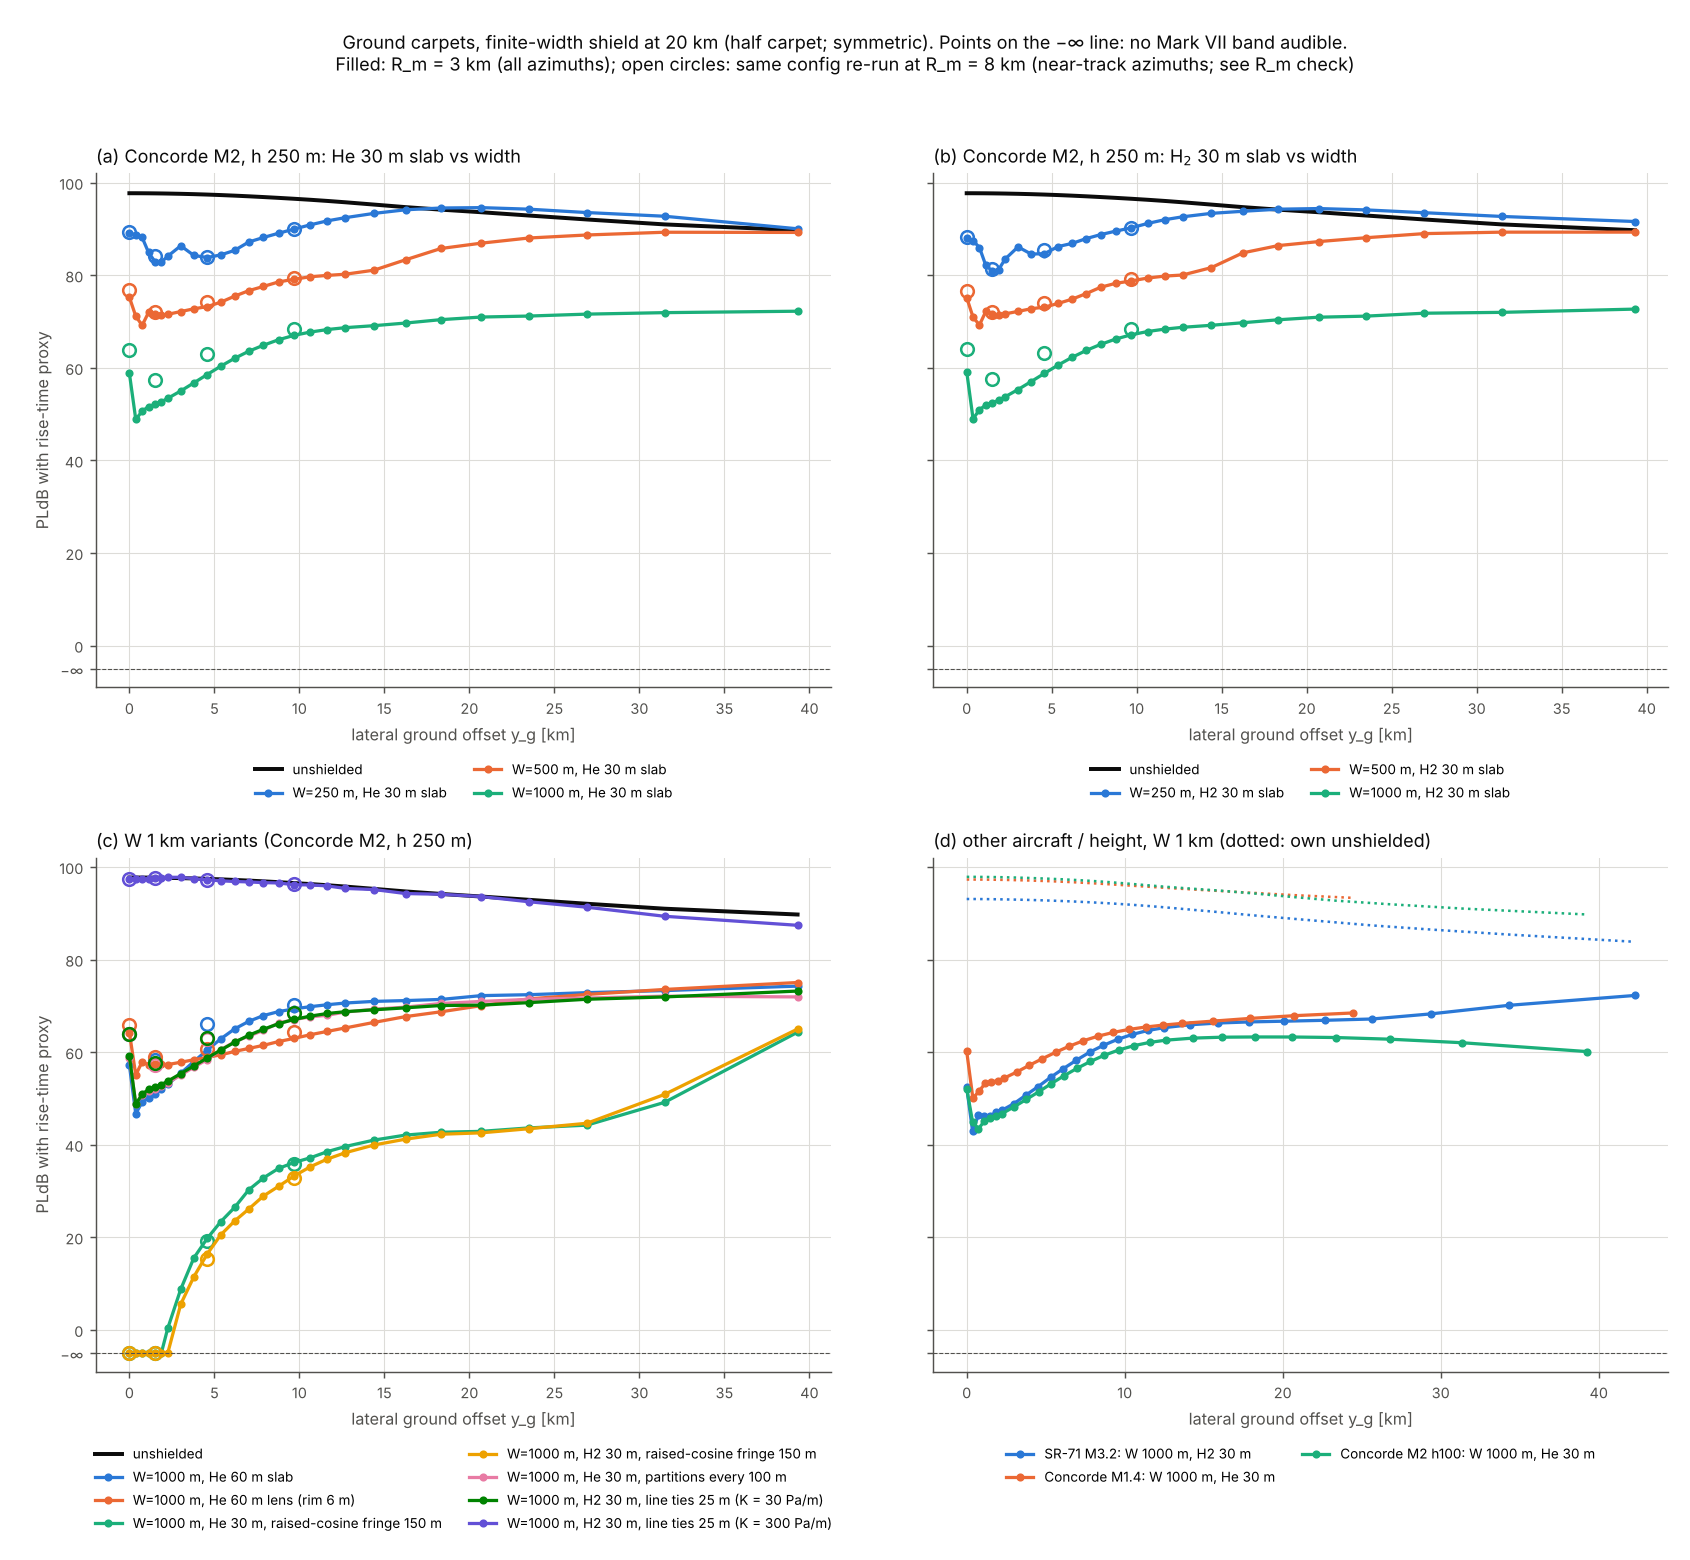
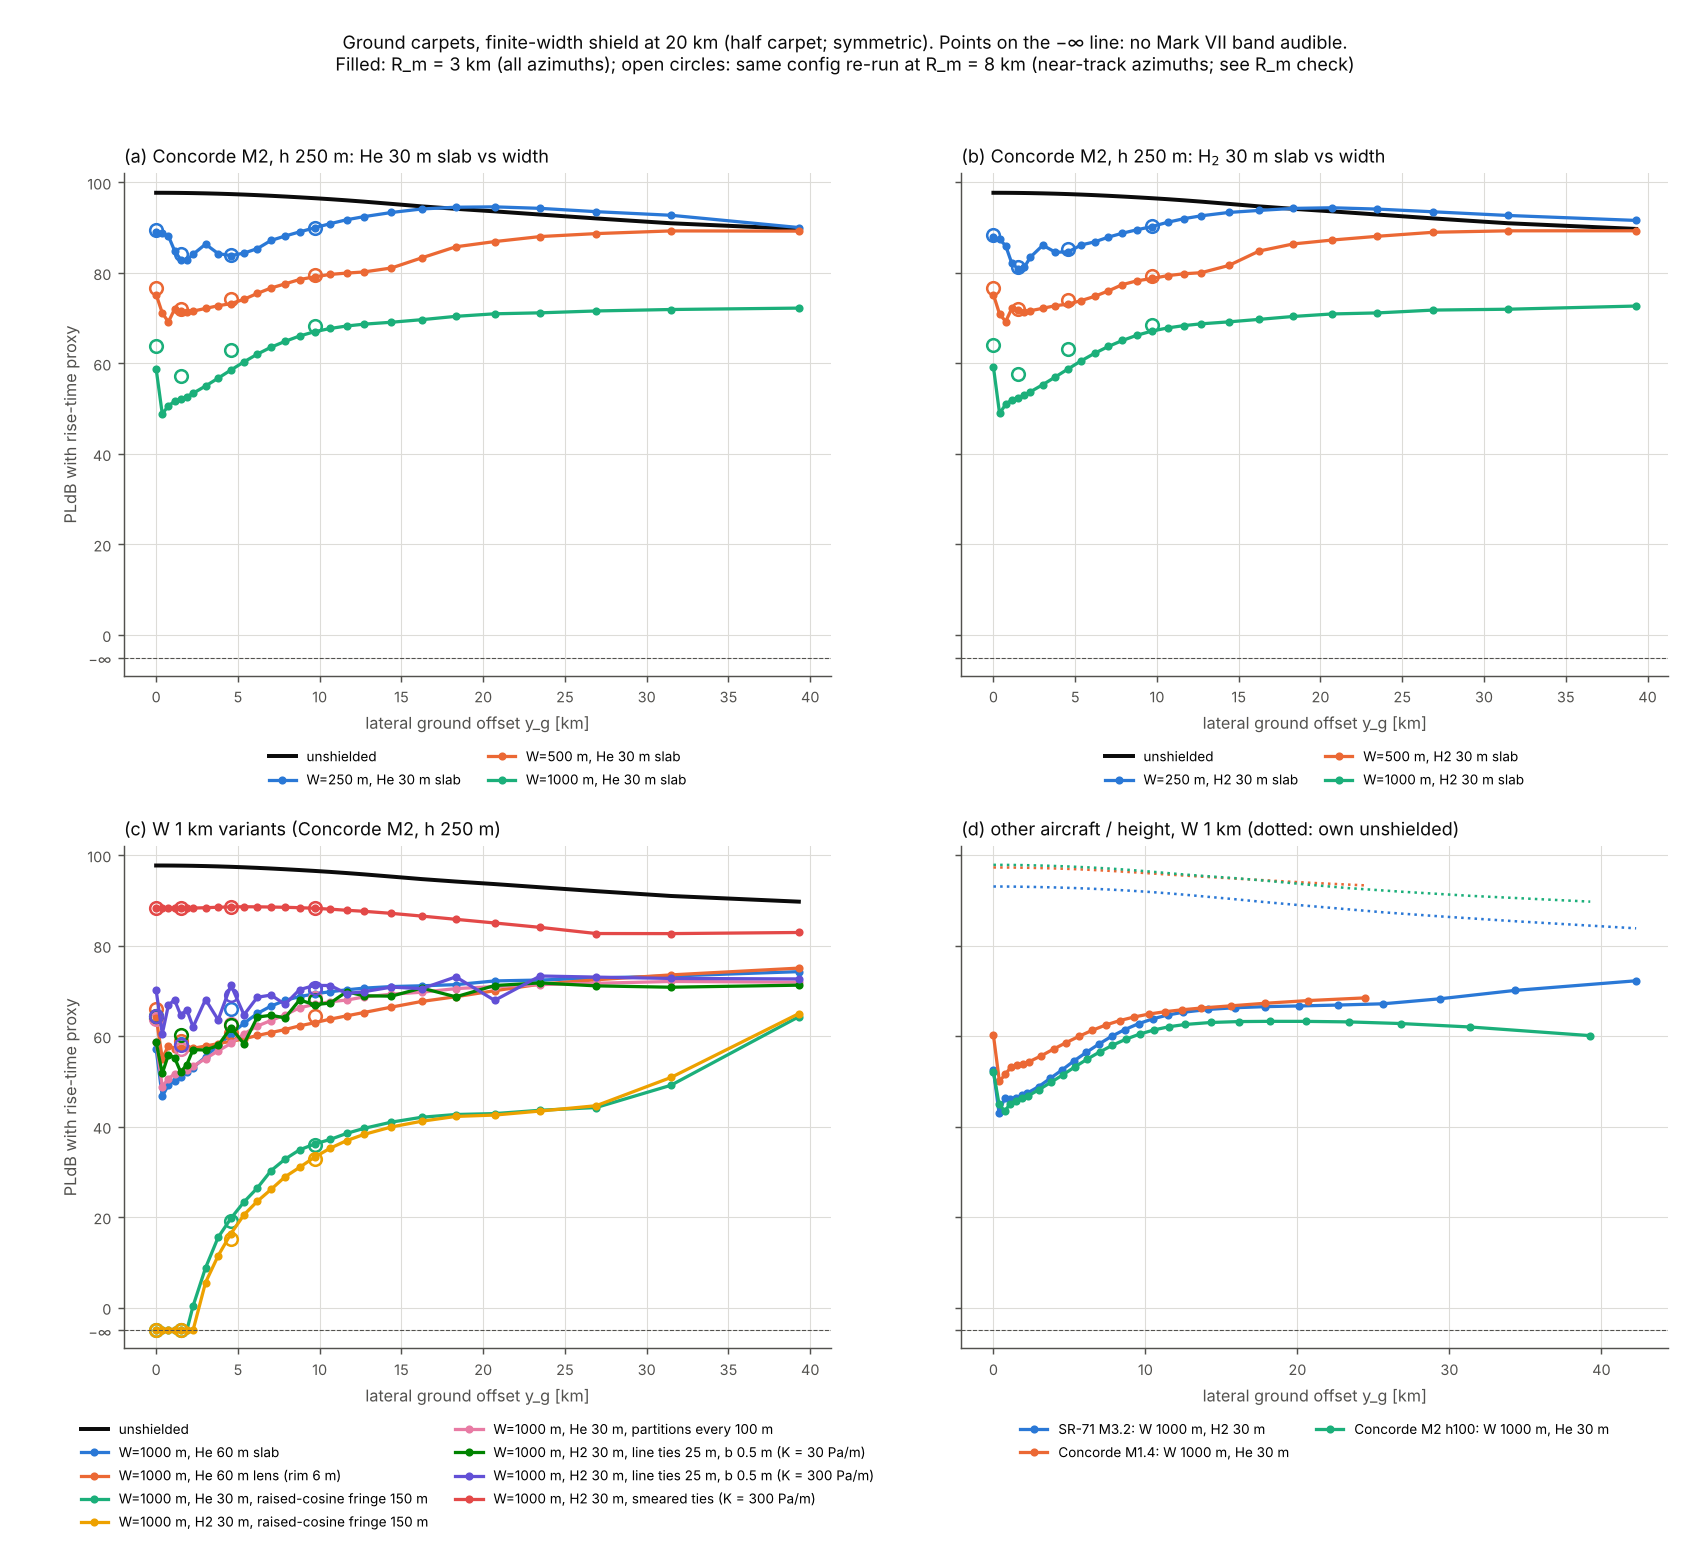
Add infographic data (incl. Overture sims) and corrected tie-case results
Tie rows of the 3-D study rerun with physical-width line ties after the
mesh fix; Overture-like M1.7 shielded/unshielded runs; cited reference
levels for the infographic.

Claude-Session: https://claude.ai/code/session_01RbnYLXCK3HPi4Bm69kAxad

diff --git a/boom-shield/infographic/make_data.py b/boom-shield/infographic/make_data.py
@@ -280,8 +280,9 @@ def sim_entry(f, base, sh, far, src, cutoff_km, ovr=None):
                               note=("at the outermost computed azimuth; the carpet edge beyond it was not computed"
                                     if abs(g(sh, "y_at_max_km") - g(sh, "y_max_km")) < 0.05 else None))),
         delta_headline_db=dict(
-            undertrack=V(r1(d8), src, R_m="8 km", note="less favourable of raw and proxy"),
-            carpet_max=V(r1(g(sh, "d_max")), src, R_m="3 km"),
+            undertrack=V(r1(d8), src, R_m="8 km", note="less favourable of raw and proxy",
+                         raw=r1(ut8_r - un_ut_r)),
+            carpet_max=V(r1(g(sh, "d_max")), src, R_m="3 km", raw=r1(g(sh, "d_max_raw"))),
             turbulence_paired_note=V("headline deltas conservative by ~5.6-8.3 dB at W 1 km (Concorde M2); paired turbulent delta ~ raw delta",
                                      "wt", tag="simulated")),
         shielded_strip=V(dict(half_width_km_ge10dB=r1(g(sh, "strip_half_km")),
@@ -327,7 +328,10 @@ def build(cache):
               cruise_reference=dict(
                   published_overpressure_psf=V(0.9, ["nasa_fs016", "valp"], "published",
                                                note="M3 at 80,000 ft (24.4 km); repo model gives 0.99 psf"),
-                  measured_pldb=V(None, [], "published", note="no published PLdB found")),
+                  measured_pldb=V(None, [], "published", note="no published PLdB found"),
+                  simulated_at_24_4_km=V({k: r1(v) for k, v in ovr["sr71_cruise_24_4km"].items()} if ovr and "sr71_cruise_24_4km" in ovr else None,
+                                         "ovr_run", "simulated",
+                                         note="unshielded undertrack, M3.0 at 80,000 ft (repo SR-71 validation preset), direct near-field path")),
               note="Highest Mach simulated; widest carpet, so the far-edge shielding (about -21 dB) is weakest.")
 
     if ovr and "O1.7_h250_W1000_H230" in ovr:
@@ -352,8 +356,10 @@ def build(cache):
                                 note="Mach cut-off: the boom refracts upward and does not reach the ground; at M1.7 over water Overture does boom"),
               note="Same pipeline and numerics as Concorde/SR-71 (R_m 3 km all azimuths, 8 km near track); Overture's real shape is not modelled (Sears-Haack + lift).")
     if ovr and "O1.7_h250_none" in ovr and "cruise_18_3km" in ovr:
-        ov["cruise_reference"] = dict(simulated_at_18_3_km=V(ovr["cruise_18_3km"], "ovr_run", "simulated",
-                                                             note="unshielded undertrack, direct near-field path"))
+        ov["cruise_reference"] = dict(simulated_at_18_3_km=V({k: r1(v) for k, v in ovr["cruise_18_3km"].items()},
+                                                             "ovr_run", "simulated",
+                                                             note="unshielded undertrack at 60,000 ft, direct near-field path; the modelled front is not yet fully steepened there (~13 ms rise vs ~1 ms at 20.25 km), so it comes out ~2 dB quieter than at 20.25 km; indicative only"),
+                                      published_pldb=V(None, [], "published", note="Boom publishes no Mach 1.7 boom level"))
 
     c14 = "C1.4_h250_W1000_He30"
     d_ut14, d_mx14 = f(c14 + "_R8000", "d_ut"), f(c14, "d_max")
@@ -485,16 +491,16 @@ def build(cache):
     ovl = ov_sim.get("delta_headline_db", {}) if isinstance(ov_sim, dict) else {}
     ovtxt = ""
     if ovl:
-        ovtxt = (f" Boom Overture (M1.7, simulated): {ovl['undertrack']['value']} dB undertrack, "
-                 f"{ovl['carpet_max']['value']} dB at the carpet maximum.")
+        ovtxt = " (Boom Overture, M1.7, simulated with an estimated preset: %s dB undertrack, %s dB at the carpet maximum)" % (
+            ovl['undertrack']['value'], ovl['carpet_max']['value'])
     findings = [
-        V("A 1 km-wide, 30 m hydrogen shield cuts a Concorde boom by about 34 dB under the track and about 25 dB at the loudest point of the carpet (conservative), turning a ~98-108 PLdB boom into ~64-73 PLdB.", ["r3d_sum", "r3d_csv"]),
+        V("A 1 km-wide, 30 m hydrogen shield cuts a Concorde boom by about 34 dB under the track and about 25 dB at the loudest point of the carpet (conservative), taking it from ~98 PLdB (conservative proxy scale; ~108 raw) to ~64 PLdB under the track and at most ~73 PLdB anywhere in the computed carpet.", ["r3d_sum", "r3d_csv"]),
         V("Width, not gas or thickness, sets the result: 250 m wide gives only -8 to -9 dB and 500 m about -21 dB undertrack, because sound diffracts around the edges.", "r3d_sum"),
-        V("The result holds across speeds: about -33 to -35 dB undertrack for Concorde at Mach 1.4 and 2 and the SR-71 at Mach 3.2." + ovtxt, ["r3d_csv", "ovr_run"]),
+        V("The result holds from Mach 1.4 to 3.2: about -33 to -36 dB under the track and -21 to -29 dB at the loudest point for Concorde, Overture and the SR-71" + ovtxt + ".", ["r3d_csv", "ovr_run"]),
         V("These are conservative: with realistic turbulence the reduction is about 5-8 dB larger, and wind barely changes it (<=0.4 dB undertrack) though it moves where the carpet lands.", "wt"),
         V("Only a soft structure works: anything stiff that holds the faces apart (struts, stiff ties, drop-stitch, vacuum frames) or any open gap leaks the boom through; the floating-lid pillow is the baseline.", ["struct", "vac", "at"]),
         V("The hard problems are not acoustic: mooring a 1 km layer at 20 km against the jet stream (350-630 kN drag per tether, 800-2,000 tethers), a ~10 % daily lift swing, and 0.74 Mt of hydrogen next to air traffic.", ["addendum", "struct"]),
-        V("Shaping (X-59, ~75 PLdB) and Boom's Mach-cutoff 'Boomless Cruise' (M1.1-1.3) attack the same problem at low Mach; a shield's niche is Mach 1.7 and above, where neither applies.", ["x59_target_ntrs", "boomless_faq", "addendum"]),
+        V("Shaping (X-59, ~75 PLdB) and Boom's Mach-cutoff 'Boomless Cruise' (M1.1-1.3) work only at low Mach; a shield's niche is faster flight (Overture's Mach 1.7 and especially Mach 2+), where neither applies.", ["x59_target_ntrs", "boomless_faq", "addendum"]),
     ]
 
     data = dict(

diff --git a/boom-shield/infographic/data_notes.md b/boom-shield/infographic/data_notes.md
@@ -1,0 +1,41 @@
+# BoomShield infographic data: derivation notes
+
+`data.json` is built by `make_data.py --build`. Every number has a `src`, which points into `meta.sources`, and a `tag` (simulated, published or extrapolated).
+
+## Conventions
+
+- Aircraft fly at 20.25 km: the shield top at 20 km plus h = 250 m.
+- **Absolute PLdB** uses the conservative rise-time proxy; raw values are given alongside.
+- **Deltas** take the less favourable of raw and proxy. Paired turbulence runs give 5–8 dB more reduction (`wind_turbulence.md`).
+- **Shielded values:**
+  - The undertrack value comes from R_m = 8 km.
+  - Carpet maxima and the ≥10 dB strip come from R_m = 3 km.
+  - If a maximum lies at the outermost computed azimuth, it is flagged: the carpet beyond it was not computed.
+- **Shield case:** a 1 km, H₂ 30 m slab, standing in for the floating-lid pillow.
+
+## Aircraft
+
+- **Concorde and SR-71** values are read from `3d_carpet_summary.csv`.
+  - At 16.8 km the model gives 1.97 psf, against 1.94 published.
+  - Measured ~105 PLdB lies between the model's raw (109.7) and proxy (98.9) values.
+- **Overture** uses my own preset; `source.py` is unchanged.
+  - Inputs: 61.3 m, M 1.7, 62 t mid-cruise (0.81 × 77 t, the ratio the Concorde preset uses), 300 m³.
+  - **The 77 t MTOW predates the 2022 redesign, so absolute levels are estimates.** Deltas depend less on weight than absolute levels do.
+  - It was run through the `run_3d.py` functions with identical numerics: 26 azimuths at R_m 3 km, plus 0/4/12/24° at 8 km. The cache is outside `3d_cache`.
+  - The 18.3 km cruise point is indicative only: the modelled front there is not yet steep (13 ms rise).
+- **X-59:** the source model cannot represent shaped booms.
+  - Unshielded: NASA's 75 PL target.
+  - Shielded: 75 plus the Concorde M1.4 deltas (He 30 m, which agrees with H₂ to within ~2 dB): −33.4 dB undertrack and −28.8 dB at the maximum. That gives ~42 and ~46 PL.
+
+## References and scales
+
+- **All web figures are marked unverified.** Page fetches were blocked here, so they come from search-result summaries.
+- **Re-check before publishing:** the Overture MTOW, siren and dog-bark levels, and the Caltrans values, which were read from local reproductions.
+- **The dBA list** mixes CDC/NIOSH, NIDCD, FAA and state DOT figures.
+- **PL vs dBA:** no published fixed conversion for booms was found. Recommended approach:
+  - Place booms with NASA's impulsive analogies: 105 PL ≈ nearby thunder, or a car door slam heard from inside the car; 75 PL ≈ distant thunder, or a car door across the street.
+  - Show dBA on a parallel axis.
+
+## Repo studies
+
+`cross_sections` comes from `structure-concept.md` (2-D BEM), `vacuum-balloon-review.md` and `3d_summary.md`. `mooring` comes from the review addendum, the handoff and `structure-concept.md` §3–4.
